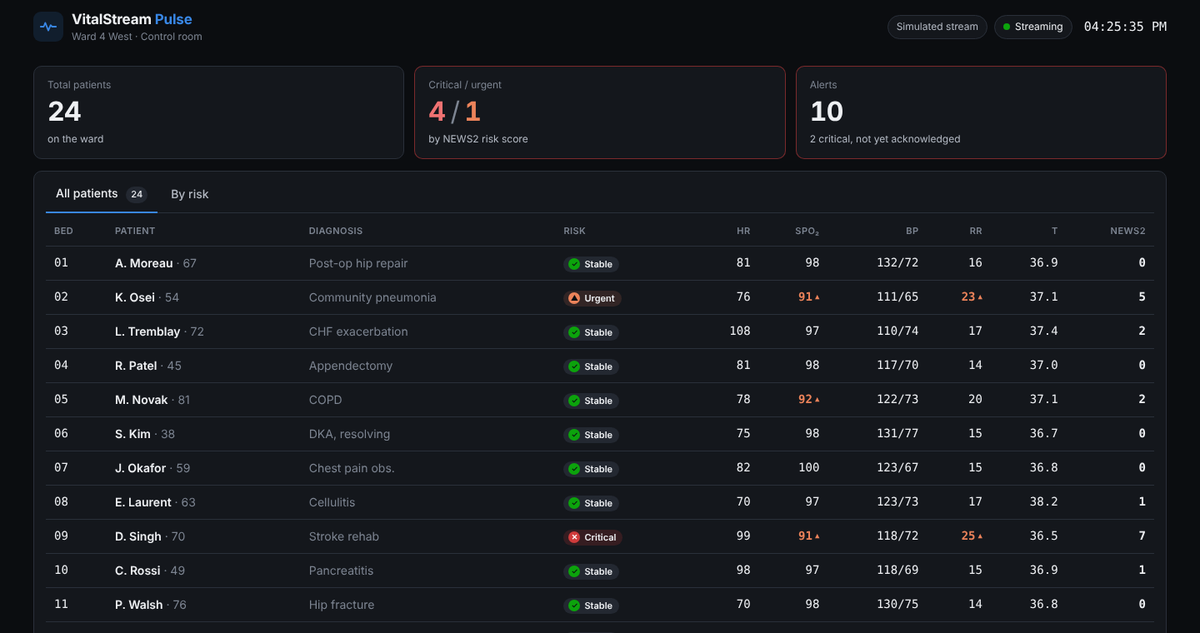
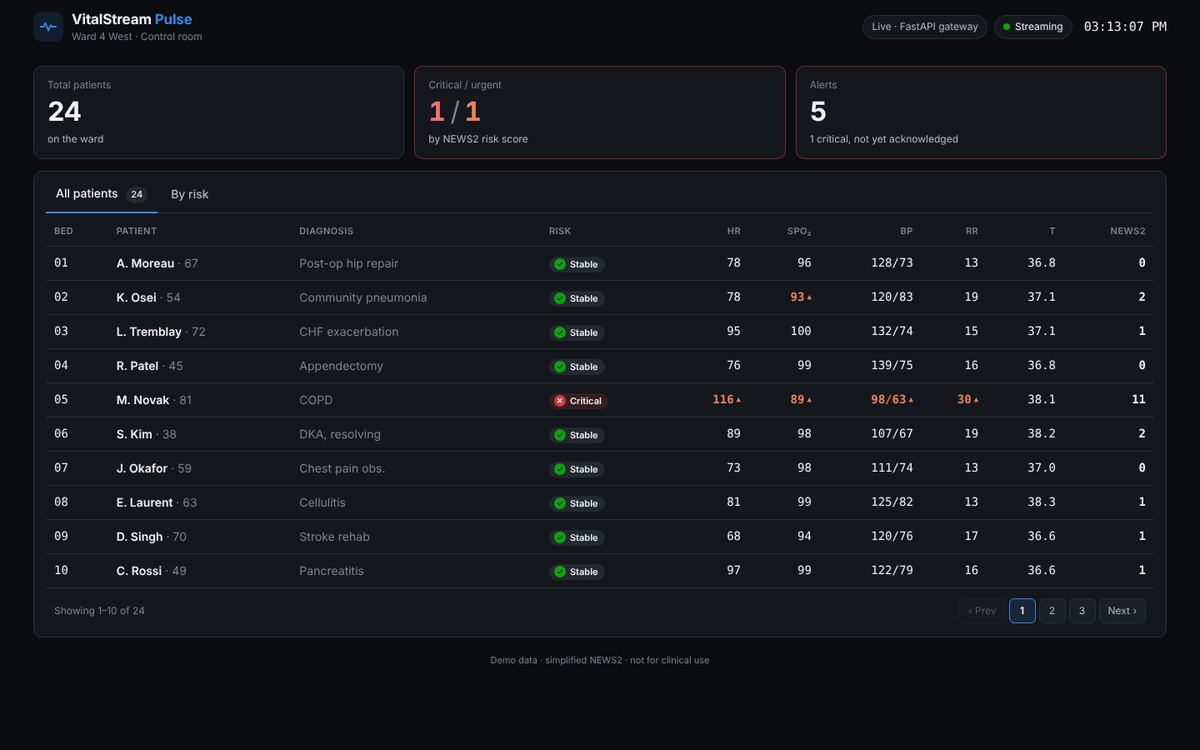
Add live vital signs: simulator, gateway streaming, table pagination

diff --git a/README.md b/README.md
@@ -1,6 +1,6 @@
 # VitalStream Pulse
 
-**Event-driven patient monitoring demo: Kafka + FastAPI (async) backend, WebSocket gateway, React + TypeScript dashboard.**
+**Event-driven patient monitoring demo: Kafka + async FastAPI microservices, a WebSocket gateway, and a React + TypeScript dashboard that shows live vital signs and NEWS2 risk for 24 beds.**
 
 ![Python](https://img.shields.io/badge/Python-3.12-3776AB?logo=python&logoColor=white)
 ![FastAPI](https://img.shields.io/badge/FastAPI-async-009688?logo=fastapi&logoColor=white)
@@ -9,18 +9,18 @@
 ![TypeScript](https://img.shields.io/badge/TypeScript-strict-3178C6?logo=typescript&logoColor=white)
 ![Docker](https://img.shields.io/badge/Docker-Kafka%20in%20a%20container-2496ED?logo=docker&logoColor=white)
 
-A live "control room" for a hospital ward of 24 beds. Patient data travels through
-**Apache Kafka** between small **FastAPI** services and is pushed to a
-**React + TypeScript** dashboard over a **WebSocket**, so the screen updates the
-moment new data arrives, with no page refresh.
+A live "control room" for a hospital ward of 24 beds. Simulated bedside monitors send
+vital signs into **Apache Kafka** every second, a scoring service works out each
+patient's **NEWS2** risk, and a **FastAPI** gateway pushes everything to a
+**React + TypeScript** dashboard over a **WebSocket**, so the screen updates the moment
+new data arrives, with no page refresh.
 
 I'm building it step by step to learn Kafka, async FastAPI and microservices.
 
 ![Dashboard](assets/dashboard.png)
 
-*The dashboard: summary cards and a table of every patient, sortable by bed or by risk.
-This screenshot uses the dashboard's built-in simulated data. In live mode, the patient
-list comes from the backend through Kafka, and live vital signs are the next step.*
+*The dashboard: summary cards, then every patient with their latest vitals, NEWS2 score
+and risk level, 10 per page. Switch to "By risk" to see the sickest patients first.*
 
 ---
 
@@ -28,31 +28,57 @@ list comes from the backend through Kafka, and live vital signs are the next ste
 
 ```mermaid
 flowchart LR
-    subgraph backend["Backend (Python)"]
-        PS["patient-service<br/>FastAPI · port 8001<br/>24 patients"]
-        SG["stream-gateway<br/>FastAPI · port 8000<br/>reads Kafka, keeps a copy"]
+    subgraph producers["Producers"]
+        SP["send_patients.py<br/>(patient-service)<br/>24 patients"]
+        VS["vitals-simulator<br/>24 readings / second"]
     end
-    K[("Apache Kafka<br/>topic: patients")]
+    T1[("Kafka topic<br/>patients")]
+    T2[("Kafka topic<br/>vitals.raw")]
+    RS["risk-scorer<br/>NEWS2 score + risk level"]
+    T3[("Kafka topic<br/>vitals.enriched")]
+    SG["stream-gateway<br/>FastAPI · port 8000"]
     D["Dashboard<br/>React + TypeScript<br/>port 5173"]
 
-    PS -- "publish<br/>1 message per patient" --> K
-    K -- "subscribe" --> SG
+    SP -- "1 message per patient" --> T1
+    VS --> T2
+    T2 -- "subscribe" --> RS
+    RS -- "publish" --> T3
+    T1 -- "subscribe" --> SG
+    T3 -- "subscribe" --> SG
     SG -- "WebSocket<br/>/ws/stream" --> D
 ```
 
 1. **patient-service** holds the 24 patients. `send_patients.py` publishes them to the
-   Kafka topic `patients`, one message per patient, keyed by patient ID.
-2. **Kafka** stores the messages on disk. Nothing is lost if a service is down.
-3. **stream-gateway** subscribes to `patients` in the background and keeps the newest
-   copy of each patient. Duplicates with the same ID simply replace the old copy.
-4. The **dashboard** opens a WebSocket to `ws://localhost:8000/ws/stream`. The gateway
-   sends the full patient list as soon as it connects, and again whenever Kafka delivers
-   a change.
+   topic `patients`, one message per patient, keyed by patient ID.
+2. **vitals-simulator** pretends to be 24 bedside monitors. Every second it sends one
+   reading per patient (heart rate, SpO₂, blood pressure, breathing rate, temperature)
+   to `vitals.raw`.
+3. **risk-scorer** reads `vitals.raw`, adds a simplified **NEWS2** score and a risk level
+   (`stable`, `watch`, `urgent`, `critical`), and writes the result to `vitals.enriched`.
+4. **stream-gateway** reads `patients` and `vitals.enriched` in the background and
+   forwards both to every open browser over the WebSocket.
+5. The **dashboard** connects to `ws://localhost:8000/ws/stream`, shows the patient list
+   straight away, and updates each row as new readings arrive.
 
-Messages to the dashboard look like this:
+Kafka keeps every message on disk, so a service can stop and start again without
+breaking the others.
+
+### Consumer groups
+
+| Group | Service | Reads | Note |
+|---|---|---|---|
+| `risk-scorer` | risk-scorer | `vitals.raw` | Saves its place, so it carries on where it stopped |
+| `stream-gateway-patients` | stream-gateway | `patients` | Reads from the beginning each start, to get the full list |
+| `stream-gateway-vitals` | stream-gateway | `vitals.enriched` | Only new readings; doesn't save its place (lag shows N/A in Kafka UI) |
+
+### Messages to the dashboard
 
 ```json
 { "topic": "patients.all-list", "ts": 1760700000000, "payload": [ { "id": "P-1001", "bed": "01", "name": "A. Moreau", "age": 67, "diagnosis": "Post-op hip repair" } ] }
+```
+
+```json
+{ "topic": "vitals.enriched", "ts": 1760700000000, "payload": { "patientId": "P-1005", "ts": 1760700000000, "hr": 116, "spo2": 89, "sbp": 98, "dbp": 63, "rr": 30, "temp": 38.1, "news2": 11, "risk": "critical" } }
 ```
 
 ---
@@ -62,7 +88,7 @@ Messages to the dashboard look like this:
 | Part | Technology |
 |---|---|
 | Message broker | Apache Kafka 3.9 (KRaft, single node) in Docker, Kafka UI for browsing topics |
-| Backend services | Python 3.12, FastAPI, uvicorn (`--reload`), aiokafka (async Kafka client) |
+| Backend services | Python 3.12, FastAPI, uvicorn (`--reload`), aiokafka (async Kafka client), asyncio |
 | Live connection | WebSocket (FastAPI to the browser) |
 | Frontend | React 18, TypeScript (strict), Vite |
 
@@ -74,21 +100,25 @@ Messages to the dashboard look like this:
 vitalStream/
 ├── backend/
 │   ├── docker-compose.yml        Kafka + Kafka UI
-│   ├── dev.ps1                   one command: start Kafka, then both services with auto-reload
+│   ├── dev.ps1                   one command: Kafka + all four services in one window
 │   ├── requirements.txt          Python libraries
 │   ├── patient-service/
 │   │   ├── main.py               FastAPI app: GET /patients
 │   │   ├── patients_data.py      the 24 patients
 │   │   └── send_patients.py      publishes every patient to Kafka
+│   ├── vitals-simulator/
+│   │   └── main.py               fake monitors -> vitals.raw
+│   ├── risk-scorer/
+│   │   └── main.py               vitals.raw -> NEWS2 score -> vitals.enriched
 │   └── stream-gateway/
-│       └── main.py               reads Kafka, pushes to browsers over WebSocket
+│       └── main.py               patients + vitals.enriched -> browsers over WebSocket
 └── dashboard/
     ├── .env.example              VITE_STREAM_URL (copy to .env)
     └── src/
         ├── App.tsx
-        ├── components/           TopBar, KpiStrip (cards), PatientTable (tabs + table)
+        ├── components/           TopBar, KpiStrip (cards), PatientTable (tabs, table, pagination)
         ├── store/vitalStore.ts   keeps the live data, redraws a few times per second
-        ├── stream/               WebSocketStream (live) / MockStream (simulated)
+        ├── stream/               WebSocketStream: connects to the gateway, reconnects if it drops
         └── types/contracts.ts    the message shapes shared with the backend
 ```
 
@@ -114,15 +144,18 @@ powershell -ExecutionPolicy Bypass -File dev.ps1
 `dev.ps1`:
 
 1. creates the Python environment (`.venv`) the first time;
-2. starts Kafka and waits until it's ready;
-3. runs **patient-service** (port 8001) and **stream-gateway** (port 8000), both with
-   auto-reload.
+2. starts Kafka and waits until it's healthy;
+3. runs everything in the **same window**:
+   - **patient-service** (port 8001, auto-reload)
+   - **stream-gateway** (port 8000, auto-reload)
+   - **risk-scorer**
+   - **vitals-simulator**
 
-Press **Ctrl+C** to stop the services.
+Press **Ctrl+C** to stop all of them.
 
 ### 2. Put the patients into Kafka
 
-In a second terminal:
+In a second terminal (needed once; Kafka keeps them after that):
 
 ```powershell
 cd backend
@@ -139,10 +172,10 @@ npm run dev
 ```
 
 Open **http://localhost:5173**. The top bar shows **Live · FastAPI gateway** and
-**Streaming**, and the table lists all 24 patients.
+**Streaming**, the table lists all 24 patients, and the vitals change every second.
 
-To try the dashboard **without the backend**, delete `dashboard/.env`. It then runs on
-built-in simulated data, as in the screenshot.
+If the top bar says **Reconnecting**, the gateway isn't running yet. Start the backend
+and the dashboard connects again by itself.
 
 ### Addresses
 
@@ -151,7 +184,7 @@ built-in simulated data, as in the screenshot.
 | Dashboard | http://localhost:5173 |
 | Patient service | http://localhost:8001/patients (API docs: `/docs`) |
 | Stream gateway | `ws://localhost:8000/ws/stream` |
-| Kafka UI | http://localhost:8080 |
+| Kafka UI | http://localhost:8080 (topics, messages, consumer groups) |
 | Kafka (for Python code) | `localhost:9094` |
 
 ---
@@ -162,10 +195,11 @@ built-in simulated data, as in the screenshot.
 - [x] Patient service with 24 patients
 - [x] Publish patients to Kafka
 - [x] Stream gateway: Kafka to WebSocket to dashboard
-- [x] Dashboard: summary cards, patient table, "All patients" / "By risk" tabs
+- [x] Dashboard: summary cards, patient table, "All patients" / "By risk" tabs, pagination
+- [x] Live vital signs: vitals-simulator to Kafka to dashboard
+- [x] Risk scorer (NEWS2) service
+- [x] `dev.ps1` runs Kafka and every service in one window
 - [ ] Patient service publishes on startup (instead of a separate script)
-- [ ] Live vital signs: simulated monitors to Kafka to dashboard
-- [ ] Danger score (NEWS2) service
 - [ ] Alerts service
 - [ ] Every service in Docker
 - [ ] Database for patients
